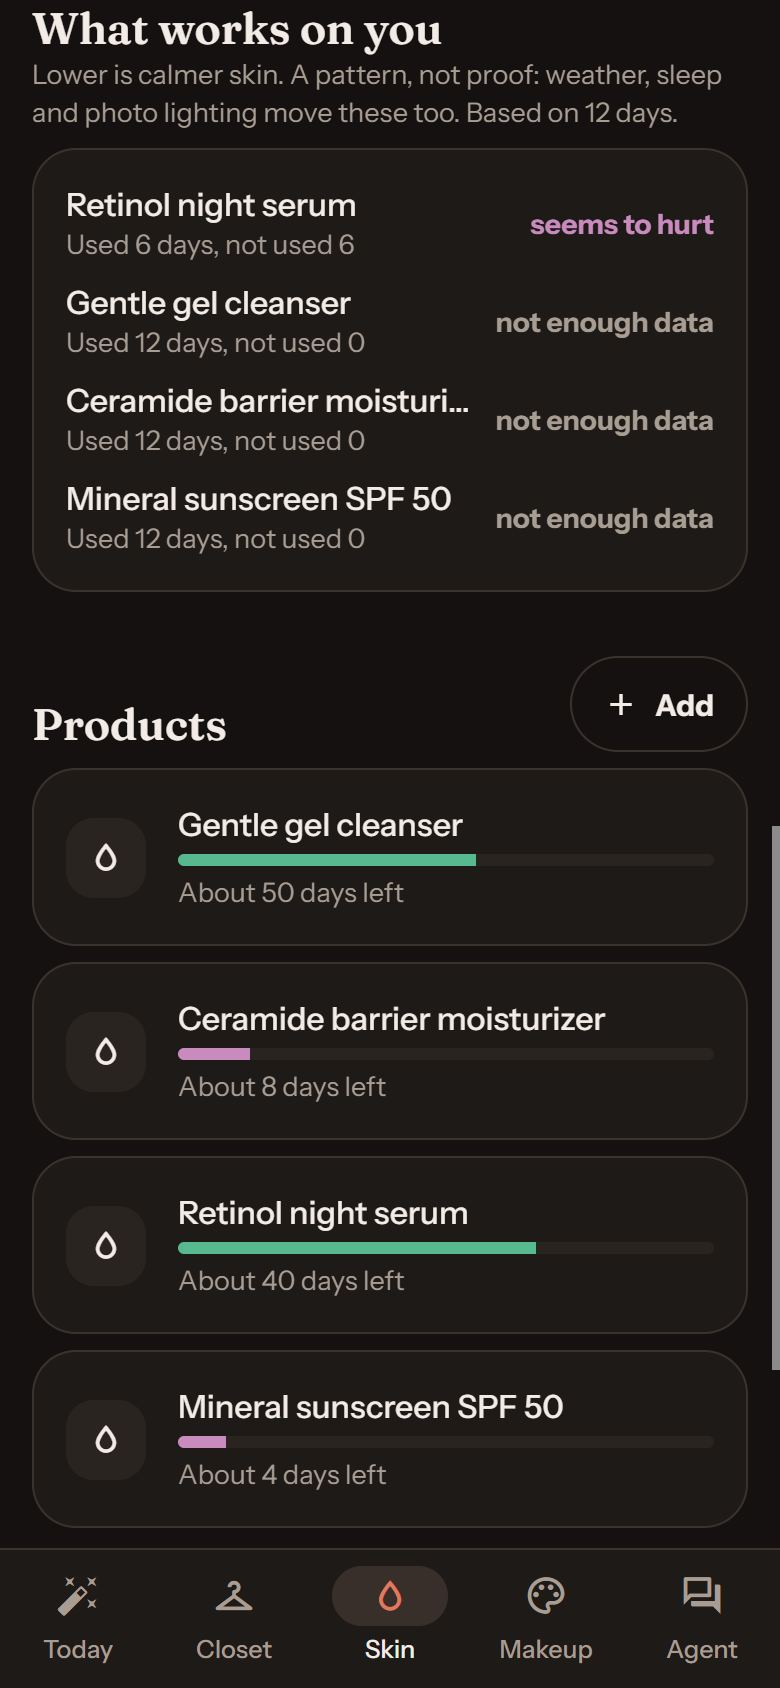
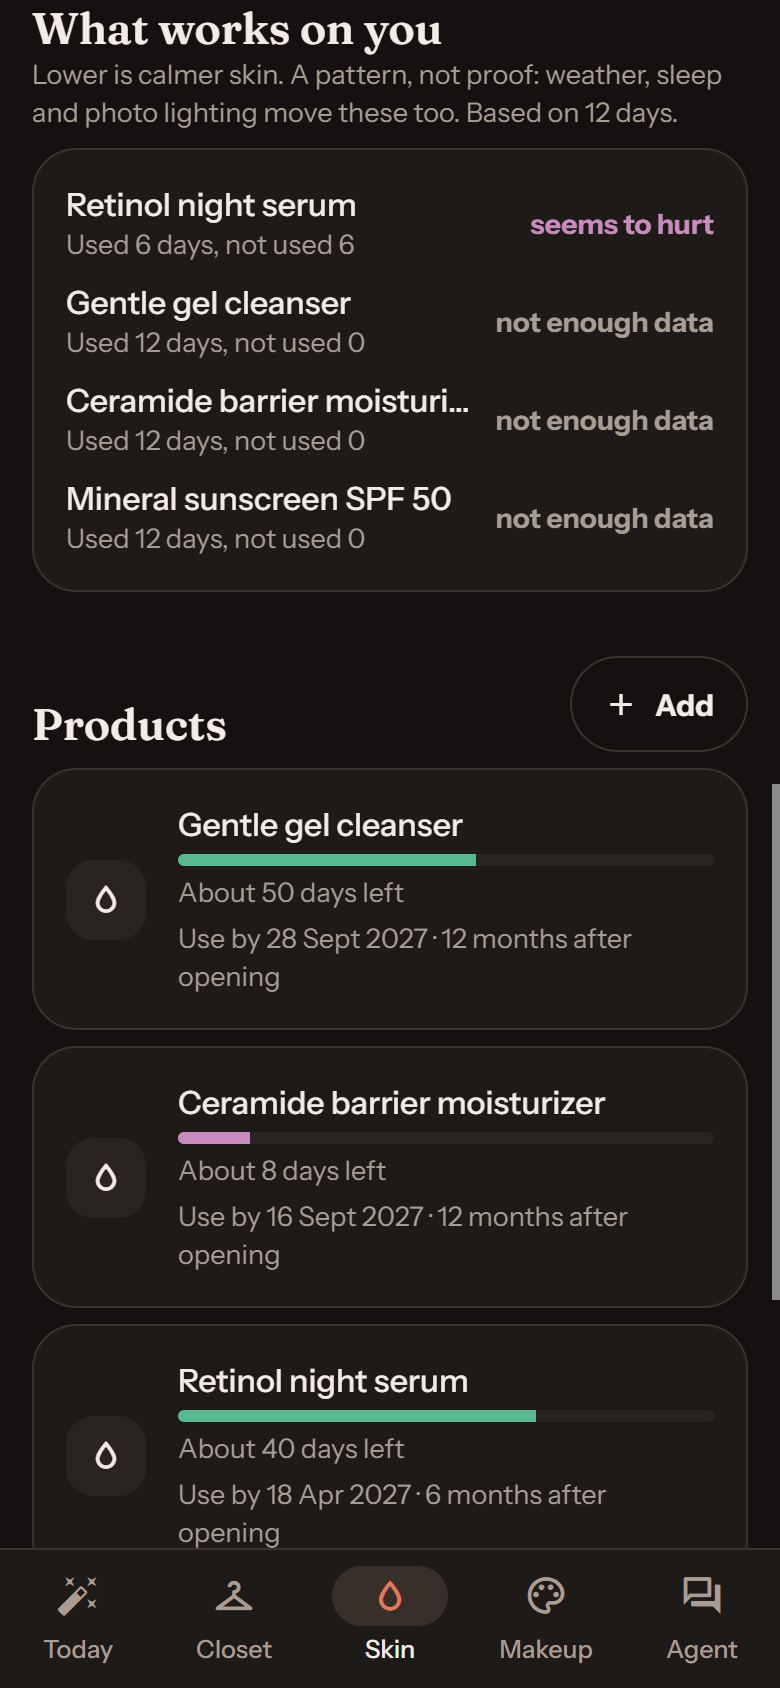
Expired items first; refreshed screenshots
Products past their after-opening period sort to the top of Makeup and
Skin, dark swatches get a visible edge, and the README screenshots now
match the current demo, with Makeup added.

diff --git a/mobile/src/app/(tabs)/makeup.tsx b/mobile/src/app/(tabs)/makeup.tsx
@@ -17,14 +17,15 @@ export default function Makeup() {
   const [type, setType] = useState('all');
   const all = (state?.items ?? []).filter((i) => i.category === 'makeup');
   const types = ['all', ...new Set(all.map((i) => i.type))];
-  const items = all.filter((i) => type === 'all' || i.type === type);
+  // Anything past its after-opening period goes first: it's the one that needs doing.
+  const items = all.filter((i) => type === 'all' || i.type === type).sort((a, b) => Number(!!b.afterOpening?.past) - Number(!!a.afterOpening?.past));
   const seen = state?.checkins.find((c) => c.reading.makeup?.wearing)?.reading.makeup;
 
   return (
     <Screen title="Makeup" kicker={`${all.length} products`} right={<Button label="Add" icon="plus" onPress={() => router.push({ pathname: '/item', params: { category: 'makeup' } })} />}>
       {all.length ? (
         <View style={[styles.palette, { backgroundColor: t.surface, borderColor: t.line }]} accessibilityLabel="Your shades">
-          {all.map((i) => <View key={i.id} style={[styles.swatch, { backgroundColor: hexFor(i) ?? t.backgroundElement, borderColor: t.line }]} />)}
+          {all.map((i) => <View key={i.id} style={[styles.swatch, { backgroundColor: hexFor(i) ?? t.backgroundElement, borderColor: t.textSecondary }]} />)}
         </View>
       ) : null}
       <ScrollView horizontal showsHorizontalScrollIndicator={false} contentContainerStyle={{ gap: Spacing.two }}>
@@ -35,7 +36,7 @@ export default function Makeup() {
         : items.map((i) => (
           <Pressable key={i.id} onPress={() => router.push({ pathname: '/item', params: { id: i.id } })} accessibilityRole="button" accessibilityLabel={`Edit ${i.name}`}>
             <Card style={{ flexDirection: 'row', gap: Spacing.three, alignItems: 'center' }}>
-              <View style={[styles.bigSwatch, { backgroundColor: hexFor(i) ?? t.backgroundElement, borderColor: t.line }]} />
+              <View style={[styles.bigSwatch, { backgroundColor: hexFor(i) ?? t.backgroundElement, borderColor: t.textSecondary }]} />
               <View style={{ flex: 1, gap: 4 }}>
                 <T variant="medium" numberOfLines={1}>{i.name}</T>
                 <T variant="small" tone="textSecondary">{[i.type, i.color, i.finish].filter(Boolean).join(' · ')}</T>

diff --git a/mobile/src/app/(tabs)/skin.tsx b/mobile/src/app/(tabs)/skin.tsx
@@ -16,7 +16,7 @@ export default function Skin() {
   const t = useTheme();
   const { state, act } = useStore();
   const [err, setErr] = useState<string | null>(null);
-  const products = (state?.items ?? []).filter((i) => i.category === 'skincare');
+  const products = (state?.items ?? []).filter((i) => i.category === 'skincare').sort((a, b) => Number(!!b.afterOpening?.past) - Number(!!a.afterOpening?.past));
   const checkins = state?.checkins ?? [];
   const entry = state?.diary.find((d) => d.date === todayIso());
   const [am, setAm] = useState<string[]>([]);

diff --git a/README.md b/README.md
@@ -15,10 +15,11 @@ Built for the PayPal AI Hackathon (Devpost, 2026). Android app plus a small Node
 Closet apps track what you own but never buy. Skincare apps log reactions but never stop a purchase. Shopping agents buy, but don't know what you own. Shelfie joins the three.
 
 <p>
-  <img src="docs/screens/today-calls.jpeg" width="190" alt="Today: the agent skips a cleanser you already own, buys a moisturizer at a fair price, and leaves a concealer with too little price history for you to decide">
-  <img src="docs/screens/closet.jpeg" width="190" alt="Closet: photo grid with a warning that you own four black tops">
-  <img src="docs/screens/skin-works.jpeg" width="190" alt="Skin: what works on you, with retinol nights marked as seeming to hurt">
-  <img src="docs/screens/agent.jpeg" width="190" alt="Agent: one message saved three preferences as memories">
+  <img src="docs/screens/today-calls.jpeg" width="152" alt="Today: the agent skips a black top you already own and buys a replacement for an expired mascara at a fair price">
+  <img src="docs/screens/closet.jpeg" width="152" alt="Closet: photo grid with a warning that you own four black tops">
+  <img src="docs/screens/makeup.jpeg" width="152" alt="Makeup: a mascara past its three-month after-opening period is flagged at the top">
+  <img src="docs/screens/skin-works.jpeg" width="152" alt="Skin: what works on you, with retinol nights marked as seeming to hurt">
+  <img src="docs/screens/agent.jpeg" width="152" alt="Agent: one message saved three preferences as memories">
 </p>
 
 <img src="docs/screens/ledger.jpeg" width="780" alt="Decision ledger built with AG Grid: skips, buys and your-call decisions with price history sparklines">
@@ -32,7 +33,7 @@ Demo data, generated by the real engine from `npm run seed`.
 | **Today** | The agent's recent calls, skips first, each with its evidence. Live UV and humidity. Today's outfit from your own closet. |
 | **Closet** | Photo grid, wear counts, "you own 4 black tops" warnings, and looks styled from your real pieces with gpt-image. |
 | **Skin** | Daily check-in, morning and evening products, how your skin feels, and **what works on you**: each product compared on days used versus not used. |
-| **Makeup** | Shade palette, open dates, the last look the agent saw. |
+| **Makeup** | Shade palette, how long each will last, and its use-by after opening (an expired mascara goes to the top and becomes a replacement need). The last look the agent saw. |
 | **Agent** | Chat, hold-to-talk, or a **live voice call** (GPT-Live 1 over WebRTC at `/live`: the voice model talks and hands every action to the same agent). It acts through tools: adds items, logs the diary, remembers preferences, turns a reaction into a tested rule, styles looks, checks purchases, watches prices, answers money questions and prepares refunds you confirm. |
 | **Ledger** | `/ledger` on the server: every decision with its price history, rule and PayPal trail, a 112-product price observatory, and how the rules changed. Built with AG Grid. |
 
